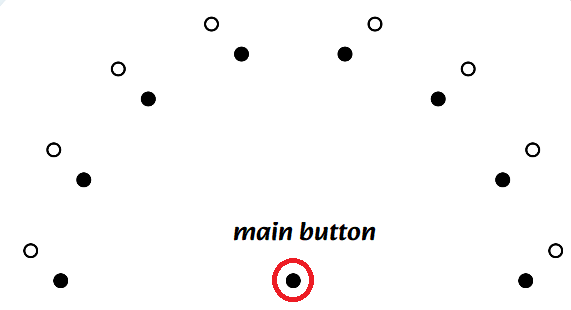
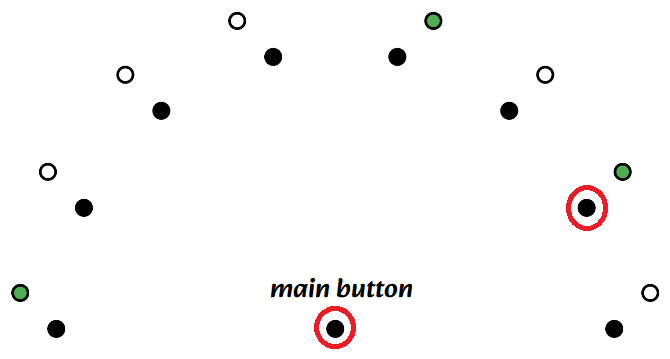
Third exam improvement

diff --git a/lib/Third exam explanation page.dart b/lib/Third exam explanation page.dart
@@ -22,86 +22,96 @@ class _ThirdExplanationPage extends State<ThirdExplanationPage> {
                   image: AssetImage("assets/images/background2.png"),
                   fit: BoxFit.cover),
             ),
-            child: Column(
-                crossAxisAlignment: CrossAxisAlignment.center,
+            child: Column(children: [
+              const SizedBox(height: 40),
+              Row(
                 children: [
-                  const SizedBox(height: 75),
+                  const SizedBox(
+                    width: 50,
+                  ),
                   const Text(
-                    "When the test begins, you will need to press the main button. \n A single light or three lights will turn on: \n -In the case of one light turning, you will need to click the button of that light. \n -In the case of three lights turning on at the same time, you will need to click the \n light's button that is farthest away from the other two lights. ",
-                    textAlign: TextAlign.center,
+                    "When the test begins, you will need to press the main button. \n A single light or three lights will turn on: \n -In the case of one light turning, you will need to click the light's button. \n -In the case of three lights turning on at the same time, you will need to \n click the light's button that is farthest away from the other two lights: \n   -If there are two adjacent lights you will need to click the distant one. \n   -If there are three remote lights you will need to click the rightmost light. \n   -If there are three adjacent lights you will need to click the rightmost light. ",
                     style: TextStyle(
                         fontWeight: FontWeight.w900,
-                        fontSize: 30,
+                        fontSize: 26,
                         fontFamily: 'Alkatra'),
                   ),
-                  const SizedBox(height: 30),
-                  Center(
-                      child: Row(
-                    mainAxisAlignment: MainAxisAlignment.center,
-                    crossAxisAlignment: CrossAxisAlignment.center,
-                    mainAxisSize: MainAxisSize.min,
-                    children: [
-                      SizedBox(
-                        height: 250,
-                        width: 380,
-                        child: Image.asset('assets/images/example3.png'),
-                      ),
-                      const SizedBox(
-                        width: 20,
-                      ),
-                      SizedBox(
-                        height: 250,
-                        width: 380,
-                        child: Image.asset('assets/images/example2.png'),
-                      ),
-                      const SizedBox(
-                        width: 20,
-                      ),
-                      SizedBox(
-                        height: 250,
-                        width: 380,
-                        child: Image.asset('assets/images/example1.png'),
+                  SizedBox(
+                    height: 250,
+                    width: 380,
+                    child: Image.asset('assets/images/example3.png'),
+                  ),
+                ],
+              ),
+              const SizedBox(height: 10),
+              Center(
+                child: Row(
+                  mainAxisAlignment: MainAxisAlignment.center,
+                  crossAxisAlignment: CrossAxisAlignment.center,
+                  mainAxisSize: MainAxisSize.min,
+                  children: [
+                    SizedBox(
+                      height: 250,
+                      width: 380,
+                      child: Image.asset('assets/images/example4.png'),
+                    ),
+                    const SizedBox(
+                      width: 20,
+                    ),
+                    SizedBox(
+                      height: 250,
+                      width: 380,
+                      child: Image.asset('assets/images/example2.png'),
+                    ),
+                    const SizedBox(
+                      width: 20,
+                    ),
+                    SizedBox(
+                      height: 250,
+                      width: 380,
+                      child: Image.asset('assets/images/example1.png'),
+                    ),
+                  ],
+                ),
+              ),
+              const SizedBox(height: 5),
+              TextButton(
+                onPressed: () {
+                  Navigator.push(
+                    context,
+                    MaterialPageRoute(builder: (context) => const LBulb()),
+                  );
+                },
+                child: Container(
+                  height: 50,
+                  width: 200,
+                  decoration: BoxDecoration(
+                    color: Colors.blue[300]?.withOpacity(0.8),
+                    borderRadius: BorderRadius.circular(30),
+                    boxShadow: [
+                      BoxShadow(
+                        color: Colors.black.withOpacity(0.5),
+                        offset: const Offset(
+                          7.0,
+                          7.0,
+                        ),
+                        blurRadius: 10.0,
                       ),
                     ],
-                  )),
-                  const SizedBox(height: 30),
-                  TextButton(
-                    onPressed: () {
-                      Navigator.push(
-                        context,
-                        MaterialPageRoute(builder: (context) => const LBulb()),
-                      );
-                    },
-                    child: Container(
-                      height: 50,
-                      width: 200,
-                      decoration: BoxDecoration(
-                        color: Colors.blue[300]?.withOpacity(0.8),
-                        borderRadius: BorderRadius.circular(30),
-                        boxShadow: [
-                          BoxShadow(
-                            color: Colors.black.withOpacity(0.5),
-                            offset: const Offset(
-                              7.0,
-                              7.0,
-                            ),
-                            blurRadius: 10.0,
-                          ),
-                        ],
-                      ),
-                      child: Center(
-                        child: Text(
-                          'Lets start',
-                          textAlign: TextAlign.center,
-                          style: TextStyle(
-                              color: Colors.black.withOpacity(0.9),
-                              fontSize: 35,
-                              fontWeight: FontWeight.bold,
-                              fontFamily: 'Alkatra'),
-                        ),
-                      ),
+                  ),
+                  child: Center(
+                    child: Text(
+                      'Lets start',
+                      textAlign: TextAlign.center,
+                      style: TextStyle(
+                          color: Colors.black.withOpacity(0.9),
+                          fontSize: 35,
+                          fontWeight: FontWeight.bold,
+                          fontFamily: 'Alkatra'),
                     ),
                   ),
-                ])));
+                ),
+              ),
+            ])));
   }
 }

diff --git a/lib/Third Exam.dart b/lib/Third Exam.dart
@@ -134,16 +134,16 @@ class _LBulb extends State<LBulb> {
                                 chosen4 = true;
                               }
                               if (globals.lightsIndex[i] == 5) {
-                                chosen5 = true;
+                                chosen8 = true;
                               }
                               if (globals.lightsIndex[i] == 6) {
-                                chosen6 = true;
-                              }
-                              if (globals.lightsIndex[i] == 7) {
                                 chosen7 = true;
                               }
+                              if (globals.lightsIndex[i] == 7) {
+                                chosen6 = true;
+                              }
                               if (globals.lightsIndex[i] == 8) {
-                                chosen8 = true;
+                                chosen5 = true;
                               }
                             }
                           });
@@ -424,15 +424,52 @@ class _LBulb extends State<LBulb> {
   }
 
   checkTheAnswer(int a) {
+    // only one light
     if (globals.lightsIndex.length == 1) {
       if (globals.lightsIndex[0] == a) {
         print("you are right");
         globals.score3++;
       }
     } else {
+      // Three lights
+      int ans = 0;
       int b = globals.lightsIndex[0];
       int c = globals.lightsIndex[1];
       int d = globals.lightsIndex[2];
+      int tempMax = max(b, c);
+      int maxIndex = max(tempMax, d);
+
+      // Three adjacent lights - the answer will be the rightmost light
+      if ((b - c).abs() == 1 && (b - d).abs() == 1 && (c - d).abs() == 1) {
+        ans = maxIndex;
+      }
+
+      // Two adjacent lights and one distant
+      if ((b - d).abs() != 1 && (c - d).abs() != 1 && (b - c).abs() == 1) {
+        //bc \ cb adjacent
+        ans = d;
+      }
+      if ((b - c).abs() != 1 && (b - d).abs() != 1 && (c - d).abs() == 1) {
+        //cd \ dc adjacent
+        ans = b;
+      }
+      if ((b - c).abs() != 1 && (c - d).abs() != 1 && (b - d).abs() == 1) {
+        //bd \ db adjacent
+        ans = c;
+      }
+
+      // Three remote lights - the answer will be the rightmost light
+      if ((b - c).abs() != 1 && (b - d).abs() != 1 && (c - d).abs() != 1) {
+        ans = maxIndex;
+      }
+
+      // check the correctness of the choice
+      if (ans == a) {
+        print("you are right");
+        globals.score3++;
+      } else {
+        print("you are wrong");
+      }
     }
   }
 }

diff --git a/lib/globals.dart b/lib/globals.dart
@@ -17,7 +17,7 @@ int score1 = 0; // num of correct answers first exam.
 double init = 60;
 double time1 = 60; // milliseconds.
 int numOfWrongAnswers1 = 2;
-// second test
+// second exam
 int score2 = 0; // num of correct answers second exam.
 List<bool> roundsBool = [];
 List<Duration> rountimes = [];
@@ -30,7 +30,7 @@ Duration time2 = const Duration(
 int version = 1; // Double game version 1 or 2.
 int leftOrRight = 0; // 1 left 2 right
 int numClickOnRight = 0;
-// third test
+// third exam
 bool lightTurn = false; // the lights in the third test.
 Map<int, Duration> detectionTimes =
     {}; // each turn (1,2,3...) has it's detection time.

diff --git a/lib/Second Exam.dart b/lib/Second Exam.dart
@@ -28,9 +28,6 @@ class Double extends StatefulWidget {
 }
 
 IconData icon = Icons.abc;
-//int score2 = 0;
-//int numOfWrongAnswers2 = 1;
-// int numOfGames = 5;
 final stopwatch = Stopwatch();
 
 class _Double extends State<Double> {
